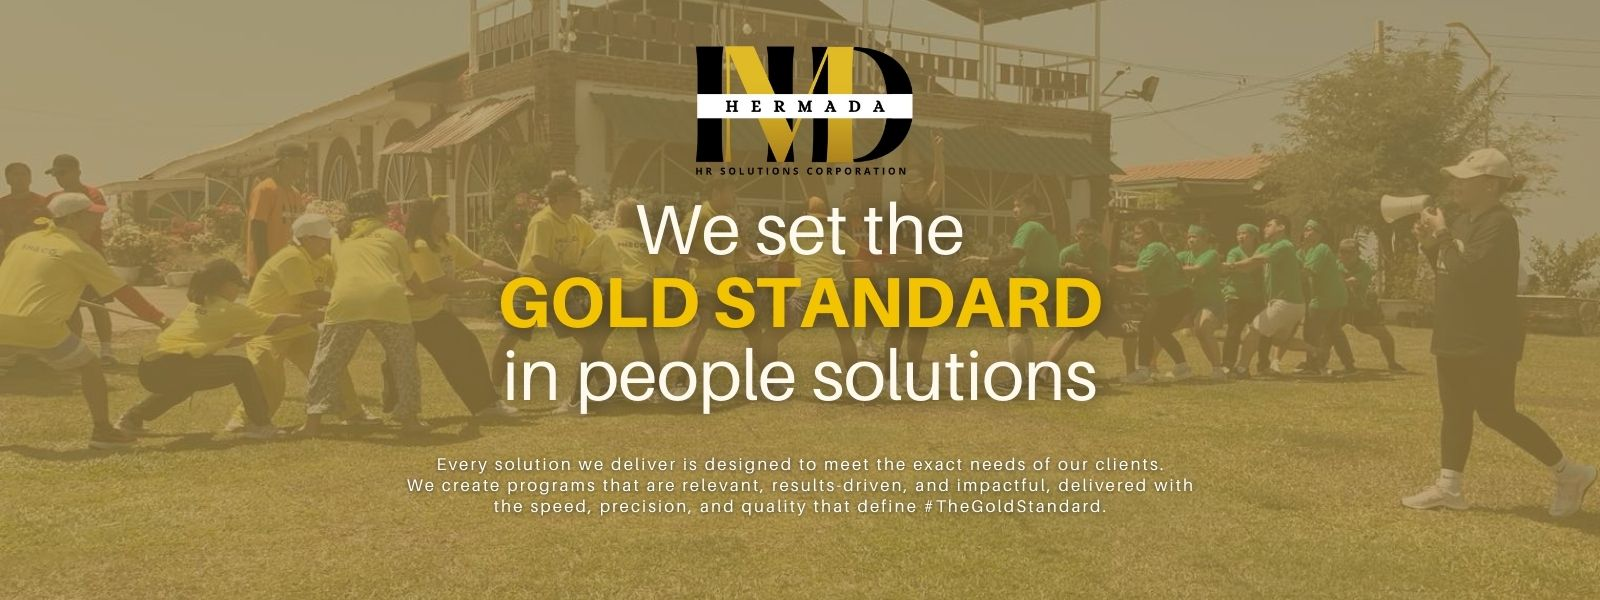
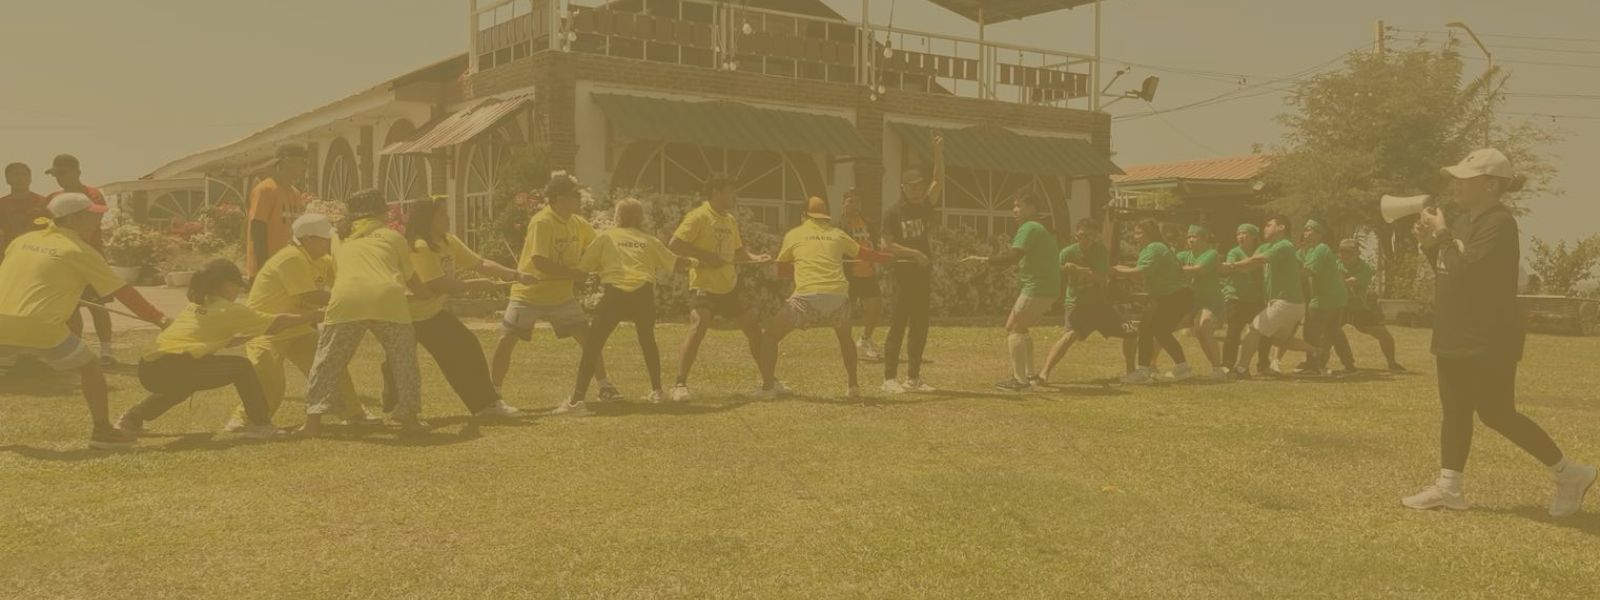
HMD Hermada
Uploading to Git Repo to Setup Render Hosting

Changed region(s): [[0.3125, 0.33, 0.6875, 0.69], [0.25, 0.75, 0.75, 0.87], [0.4375, 0.06, 0.5938, 0.3]]

diff --git a/app/templates/admin/contact-inquiries.html b/app/templates/admin/contact-inquiries.html
@@ -35,6 +35,10 @@ th.sortable.desc::after {
 #searchDate {
   cursor: pointer;
 }
+
+td span {
+  word-break: break-word;
+}
 </style>
 
 {% endblock %}
@@ -104,6 +108,47 @@ th.sortable.desc::after {
           </div>
         </div>
     </div>
+
+    <!-- Contact Details Modal -->
+    <div class="modal fade" id="contactModal" tabindex="-1">
+      <div class="modal-dialog modal-lg">
+        <div class="modal-content">
+          <div class="modal-header">
+            <h5 class="modal-title">Contact Details</h5>
+            <button type="button" class="btn-close" data-bs-dismiss="modal"></button>
+          </div>
+          <div class="modal-body">
+            <table class="table table-bordered">
+              <tr>
+                <th>Token ID</th>
+                <td id="modal_token"></td>
+              </tr>
+              <tr>
+                <th>Name</th>
+                <td id="modal_name"></td>
+              </tr>
+              <tr>
+                <th>Email</th>
+                <td id="modal_email"></td>
+              </tr>
+              <tr>
+                <th>Subject</th>
+                <td id="modal_subject"></td>
+              </tr>
+              <tr>
+                <th>Message</th>
+                <td id="modal_message" style="white-space: pre-wrap;"></td>
+              </tr>
+              <tr>
+                <th>Date</th>
+                <td id="modal_date"></td>
+              </tr>
+            </table>
+          </div>
+        </div>
+      </div>
+    </div>
+
 </main>
 <br>
 
@@ -133,16 +178,92 @@ let sortAsc = true;
 // --- CREATE TABLE ROW FROM DATA ---
 function createRow(item) {
     const tr = document.createElement("tr");
+
+    const maxLength = 50;
+    const fullMessage = item.message || "";
+    const shortMessage = fullMessage.length > maxLength 
+        ? fullMessage.substring(0, maxLength) + "..." 
+        : fullMessage;
+
+    const messageId = "msg-" + item.token_id;
+
     tr.innerHTML = `
-        <td>${item.token_id}</td>
+        <td>
+            <a href="#" class="view-details text-primary fw-bold" 
+               data-token="${item.token_id}"
+               style="cursor:pointer;">
+               ${item.token_id}
+            </a>
+        </td>
         <td>${item.name}</td>
         <td>${item.email}</td>
         <td>${item.subject}</td>
-        <td>${item.message}</td>
+        <td>
+            <span id="${messageId}" 
+                  data-full="${fullMessage.replace(/"/g, '&quot;')}" 
+                  data-short="${shortMessage}">
+                ${shortMessage}
+            </span>
+            ${fullMessage.length > maxLength 
+                ? `<button class="btn btn-sm btn-link p-0 ms-1" 
+                           onclick="toggleMessage('${messageId}')">
+                        View All
+                   </button>` 
+                : ""}
+        </td>
         <td>${item.date_created}</td>
     `;
+
     return tr;
 }
+
+// --- TOGGLE MESSAGE ---
+function toggleMessage(id) {
+    const span = document.getElementById(id);
+    const button = span.nextElementSibling;
+
+    const full = span.getAttribute("data-full");
+    const short = span.getAttribute("data-short");
+
+    if (span.innerText === short) {
+        span.innerText = full;
+        button.innerText = "Show Less";
+    } else {
+        span.innerText = short;
+        button.innerText = "View All";
+    }
+}
+
+// --- MODAL POPUP FOR TOKEN ID ---
+const contactModalEl = document.getElementById('contactModal');
+const contactModal = new bootstrap.Modal(contactModalEl);
+
+document.addEventListener("click", function(e){
+    if(e.target.classList.contains("view-details")){
+        e.preventDefault();
+
+        const token = e.target.dataset.token;
+
+        // Find full data
+        const data = allRows.find(item => 
+            String(item.token_id) === String(token)
+        );
+
+        if(!data) return;
+
+        // Populate modal fields
+        document.getElementById("modal_token").innerText = data.token_id;
+        document.getElementById("modal_name").innerText = data.name;
+        document.getElementById("modal_email").innerText = data.email;
+        document.getElementById("modal_subject").innerText = data.subject;
+        document.getElementById("modal_message").innerText = data.message;
+        document.getElementById("modal_date").innerText = data.date_created;
+        
+        contactModal.show();
+    }
+});
+
+
 
 // --- DISPLAY TABLE ---
 function displayTable() {
@@ -187,9 +308,9 @@ function sortTable(colIndex) {
     filteredRows.sort((a,b) => {
         let aText, bText;
         switch(colIndex){
-            case 0: // token_id
-                aText = a.token_id.toLowerCase();
-                bText = b.token_id.toLowerCase();
+            case 0:
+                aText = String(a.token_id).toLowerCase();
+                bText = String(b.token_id).toLowerCase();
                 break;
             case 1: aText = a.name.toLowerCase(); bText = b.name.toLowerCase(); break;
             case 2: aText = a.email.toLowerCase(); bText = b.email.toLowerCase(); break;
@@ -308,7 +429,5 @@ searchDate.addEventListener("click", function(){
     try{ this.showPicker(); } catch { console.log("Browser doesn't support showPicker()"); }
 });
 </script>
-
-
 
 {% endblock %}

diff --git a/app/static/public/assets/css/main.css b/app/static/public/assets/css/main.css
@@ -956,7 +956,7 @@ section,
 --------------------------------------------------------------*/
 .banner-container {
   /* Combination of old background image and new overlay logic */
-  background: url("/static/public/images/hmd-banner-final.jpg"); /* background: linear-gradient(rgba(0,0,0,0.4), rgba(0,0,0,0.4)), url("/static/public/images/hmd-banner-test.jpg"); */
+  background: url("/static/public/images/hmd-banner.jpg"); /* background: linear-gradient(rgba(0,0,0,0.4), rgba(0,0,0,0.4)), url("/static/public/images/hmd-banner-test.jpg"); */
   /* Fallback color: background-color: #7a6e30; */
   background-size: cover;
   background-position: center;
